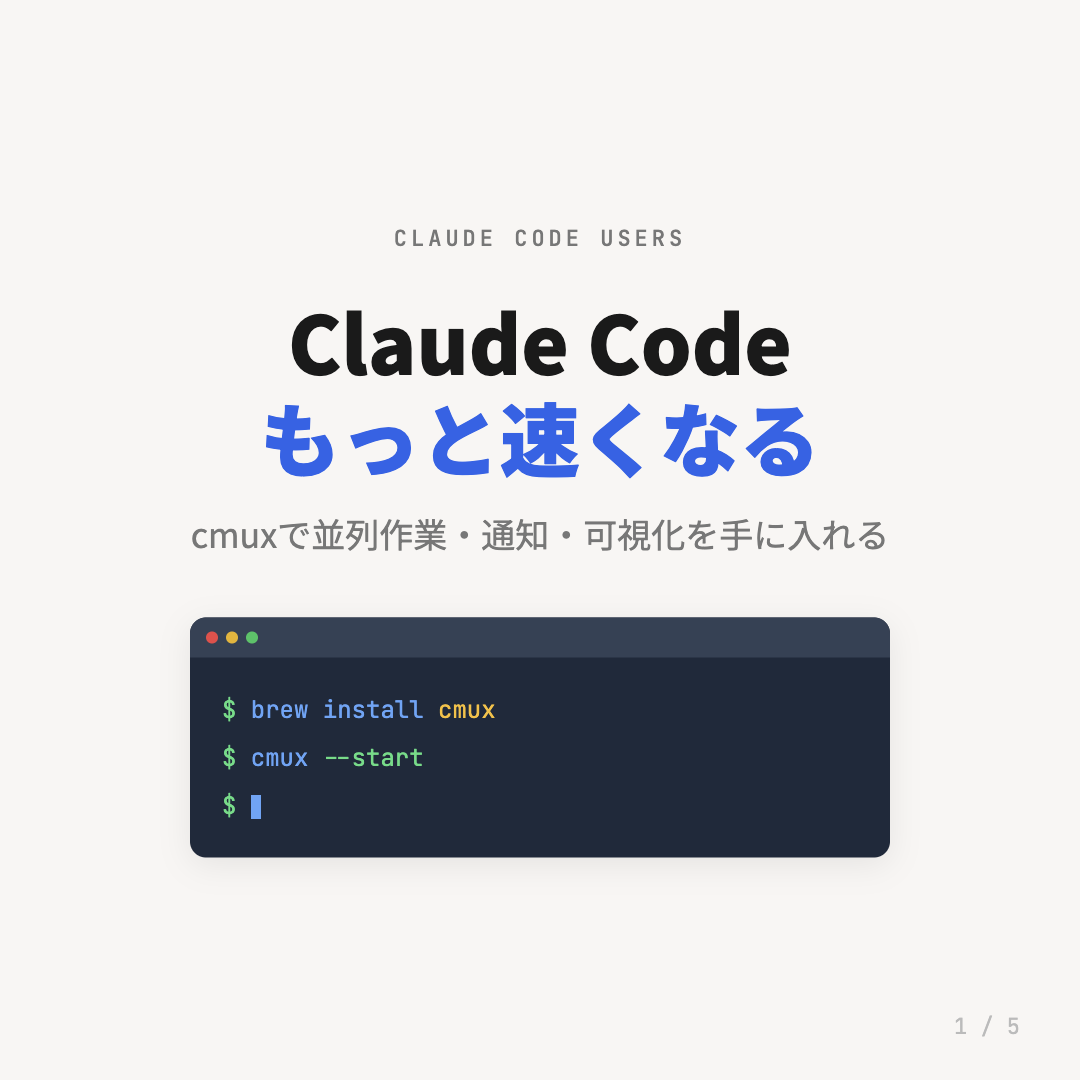
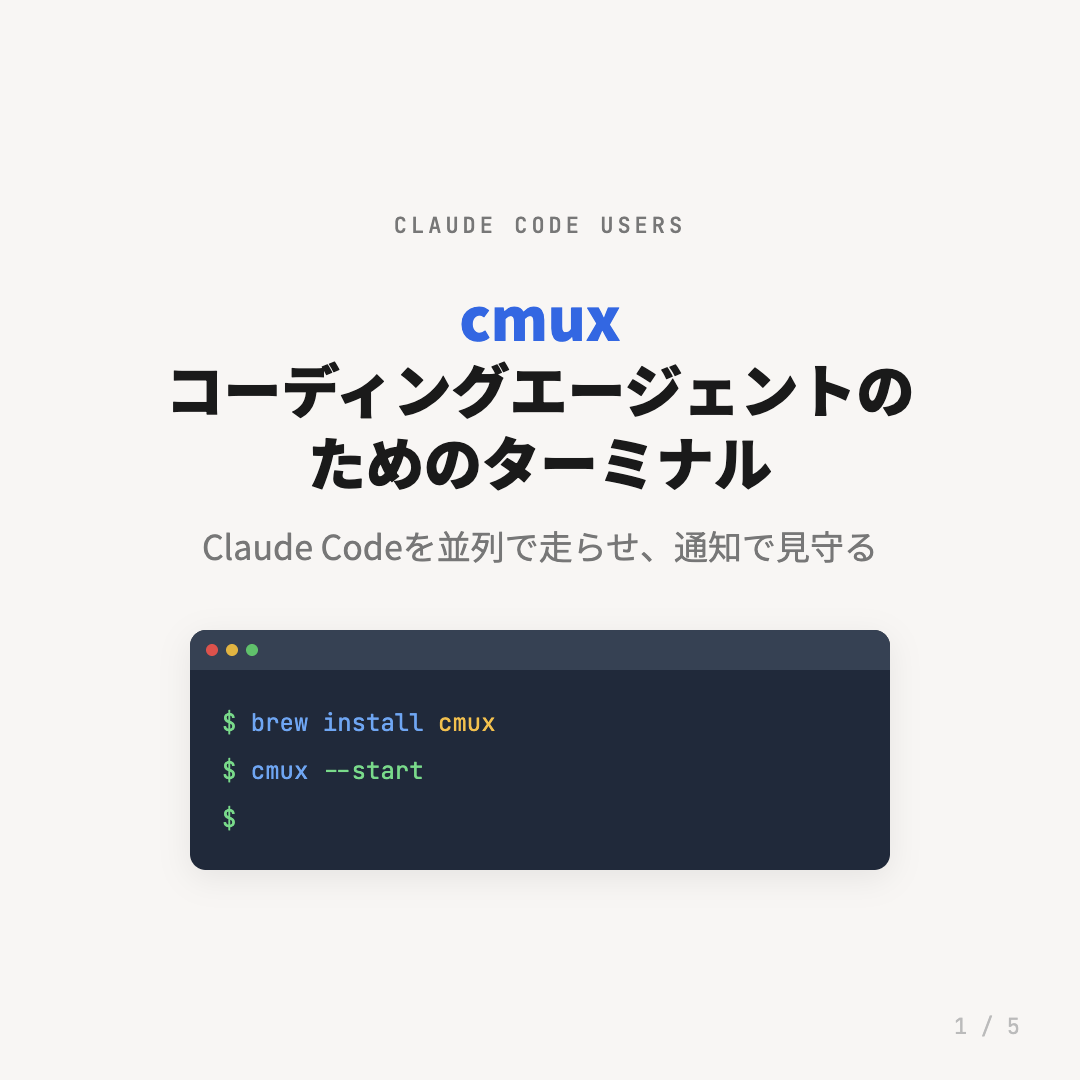
fix: cmuxカルーセル表紙の「Claude Code専用」印象を修正
メインタイトルを「cmux / コーディングエージェントのためのターミナル」に変更し、
cmuxがClaude Code専用ではなく汎用のコーディングエージェント向けターミナルである
ことを正確に反映。サブタイトルも具体的な利用シーンに更新。

diff --git a/carousel-output/cmux/slide1.html b/carousel-output/cmux/slide1.html
@@ -28,9 +28,9 @@ body {
   margin-bottom: 40px;
 }
 .main-title {
-  font-size: 80px;
+  font-size: 58px;
   font-weight: 900;
-  line-height: 1.2;
+  line-height: 1.25;
   text-align: center;
   margin-bottom: 24px;
 }
@@ -114,10 +114,10 @@ body {
 <body>
 <div class="top-label">CLAUDE CODE USERS</div>
 <div class="main-title">
-  Claude Code<br>
-  <span class="accent">もっと速くなる</span>
+  <span class="accent">cmux</span><br>
+  コーディングエージェントの<br>ためのターミナル
 </div>
-<div class="subtitle">cmuxで並列作業・通知・可視化を手に入れる</div>
+<div class="subtitle">Claude Codeを並列で走らせ、通知で見守る</div>
 <div class="terminal">
   <div class="terminal-bar">
     <div class="terminal-dot red"></div>
